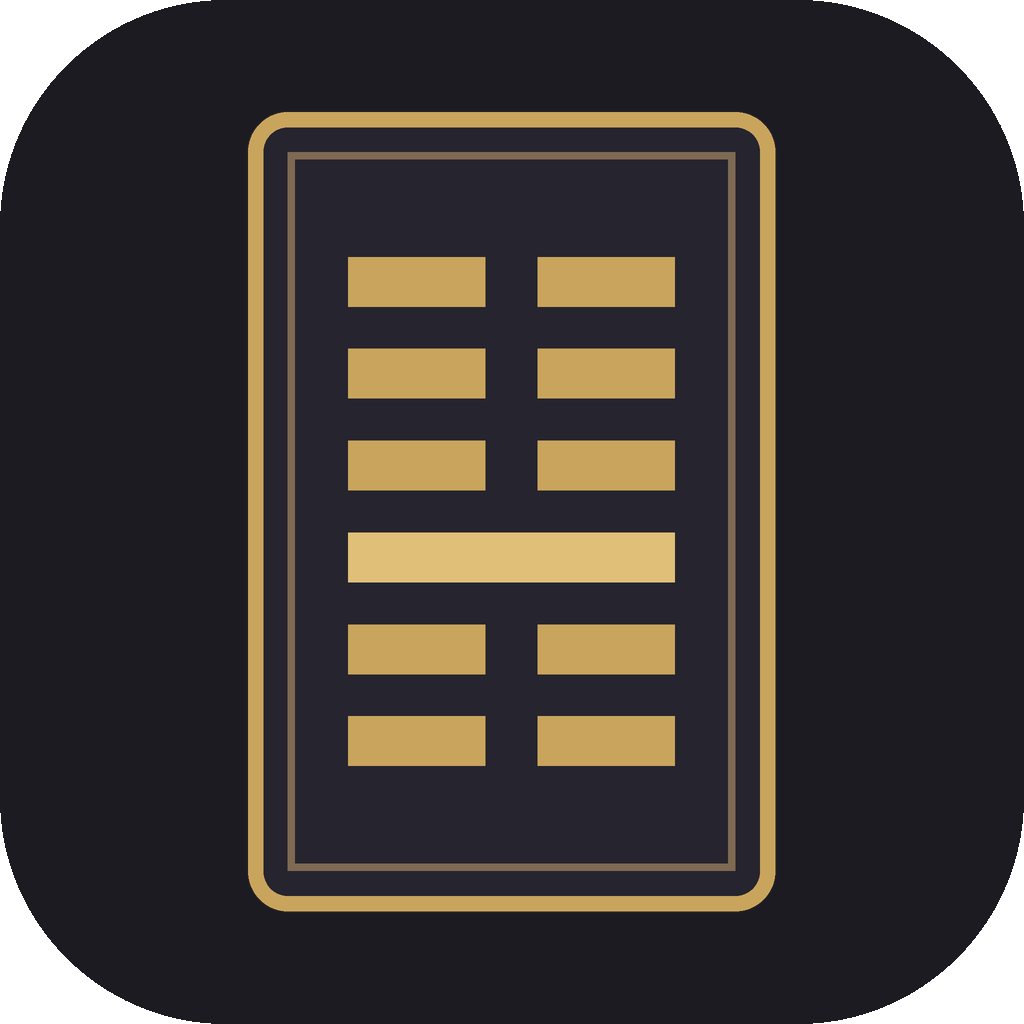
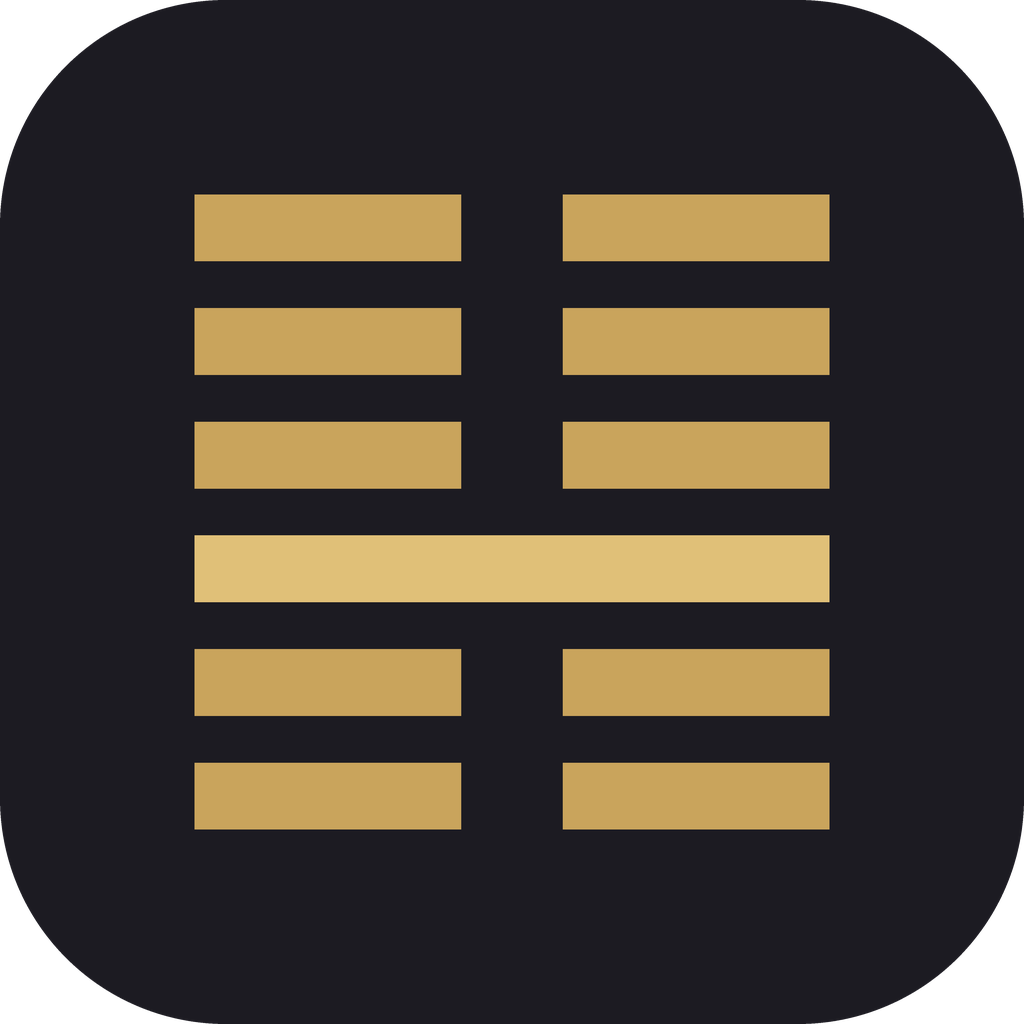
桌面圖示改無框滿版（A 版，0.1.0+14）

Changed region(s): [[0.1875, 0.0938, 0.8125, 0.9062]]

diff --git a/branding/draw_icon.py b/branding/draw_icon.py
@@ -1,45 +1,53 @@
+"""桌面圖示（0.1.0+14 起：無框滿版，2026-10-02 使用者選定 A 版）。
+玄底上直接畫謙卦 ䷎ 六爻；九三陽爻用較亮的稻金。卦象高度約為可見範圍的 62%，
+圓角方形與圓形桌面都不會切到。執行：python3 branding/draw_icon.py（在 repo 根目錄）。"""
+import os
 from PIL import Image, ImageDraw
-INK=(0x1C,0x1B,0x22); CARD=(0x26,0x24,0x2E); EARTH=(0xC9,0xA4,0x5C); RICE=(0xE0,0xC0,0x78); MT=(0x7E,0x6A,0x52)
-# 謙 ䷎ bottom->top: 初六,六二,九三,六四,六五,上六
-LINES=[False,False,True,False,False,False]
-def fg(S, frame=True):
-    """foreground on transparent S x S, content within central ~66%"""
-    im=Image.new('RGBA',(S,S),(0,0,0,0)); d=ImageDraw.Draw(im)
-    cx,cy=S/2,S/2
-    # 0.1.0+13：0.60→0.52。自適應圖示可見範圍約為畫布 66.7%，0.60 時卦卡佔滿可見高度約 89%，
-    # 桌面上顯得擁擠；0.52 時約 78%，與 icon-1024.png（使用者偏好的樣子）比例相同。
-    ch=S*0.52; cw=ch*0.66
-    if frame:
-        d.rounded_rectangle((cx-cw/2,cy-ch/2,cx+cw/2,cy+ch/2),radius=S*0.03,fill=CARD,outline=EARTH,width=max(2,int(S*0.012)))
-        m=S*0.03
-        d.rectangle((cx-cw/2+m,cy-ch/2+m,cx+cw/2-m,cy+ch/2-m),outline=MT,width=max(1,int(S*0.006)))
-    bw=cw*0.62; bh=ch*0.062; gap=ch*0.115
-    top=cy-(5*gap)/2
+
+HERE = os.path.dirname(os.path.abspath(__file__))
+INK = (0x1C, 0x1B, 0x22); EARTH = (0xC9, 0xA4, 0x5C); RICE = (0xE0, 0xC0, 0x78)
+LINES = [False, False, True, False, False, False]  # 謙 由下而上：初六、六二、九三、六四、六五、上六
+SCALE = 0.62  # 卦象高度 ÷ 可見範圍
+
+
+def hexagram(d, cx, cy, h):
+    bw = h; bh = h * 0.105; gap = (h - bh) / 5; top = cy - h / 2
     for i in range(6):
-        yang=LINES[5-i]  # draw from top: 上六 first
-        y=top+i*gap-bh/2
-        col=RICE if yang else EARTH
-        if yang: d.rectangle((cx-bw/2,y,cx+bw/2,y+bh),fill=col)
+        yang = LINES[5 - i]  # 由上往下畫
+        y = top + i * gap
+        col = RICE if yang else EARTH
+        if yang:
+            d.rectangle((cx - bw / 2, y, cx + bw / 2, y + bh), fill=col)
         else:
-            seg=bw*0.42
-            d.rectangle((cx-bw/2,y,cx-bw/2+seg,y+bh),fill=col); d.rectangle((cx+bw/2-seg,y,cx+bw/2,y+bh),fill=col)
+            seg = bw * 0.42
+            d.rectangle((cx - bw / 2, y, cx - bw / 2 + seg, y + bh), fill=col)
+            d.rectangle((cx + bw / 2 - seg, y, cx + bw / 2, y + bh), fill=col)
+
+
+def foreground(S):
+    """自適應圖示前景（108dp 畫布，可見範圍約中央 72dp＝66.7%），透明底。"""
+    im = Image.new('RGBA', (S, S), (0, 0, 0, 0))
+    hexagram(ImageDraw.Draw(im), S / 2, S / 2, S * (72 / 108) * SCALE)
     return im
+
+
 def legacy(S):
-    im=Image.new('RGBA',(S,S),(0,0,0,0)); d=ImageDraw.Draw(im)
-    d.rounded_rectangle((0,0,S-1,S-1),radius=S*0.22,fill=INK)
-    f=fg(S*2).resize((S,S),Image.LANCZOS)
-    # enlarge content for legacy (no safe-zone shrink): scale fg by 1.3
-    big=fg(int(S*1.5*2)).resize((int(S*1.5),int(S*1.5)),Image.LANCZOS)  # 1.3×0.60/0.52 ≈ 1.5，傳統圖示外觀不變
-    o=(S-big.size[0])//2; im.alpha_composite(big,(o,o)); return im
-legacy(1024).save('master_legacy.png')
-# adaptive foreground: 108dp canvas, safe 66dp -> our content 60% of canvas fits
-fg(1024).save('master_fg.png')
-# 各密度自適應前景（108dp 畫布）
-for d,px in [('mdpi',108),('hdpi',162),('xhdpi',216),('xxhdpi',324),('xxxhdpi',432)]:
-    fg(px*4).resize((px,px),Image.LANCZOS).save(f'android/res/mipmap-{d}/ic_launcher_foreground.png')
-prev=Image.new('RGB',(1024+20+192+20+96+20+48,1024),(240,240,240))
-prev.paste(legacy(1024),(0,0),legacy(1024))
-x=1044
-for s in (192,96,48):
-    l=legacy(s); prev.paste(l,(x,0),l); x+=s+20
-prev.save('preview.png')
+    """傳統圖示與上架大圖：圓角方形玄底＋卦象。"""
+    im = Image.new('RGBA', (S, S), (0, 0, 0, 0))
+    d = ImageDraw.Draw(im)
+    d.rounded_rectangle((0, 0, S - 1, S - 1), radius=S * 0.22, fill=INK)
+    hexagram(d, S / 2, S / 2, S * SCALE)
+    return im
+
+
+def hi(fn, px):
+    return fn(px * 4).resize((px, px), Image.LANCZOS)
+
+
+res = os.path.join(HERE, 'android', 'res')
+for dens, fg_px, lg_px in [('mdpi', 108, 48), ('hdpi', 162, 72), ('xhdpi', 216, 96),
+                           ('xxhdpi', 324, 144), ('xxxhdpi', 432, 192)]:
+    hi(foreground, fg_px).save(os.path.join(res, f'mipmap-{dens}', 'ic_launcher_foreground.png'))
+    hi(legacy, lg_px).save(os.path.join(res, f'mipmap-{dens}', 'ic_launcher.png'))
+hi(legacy, 1024).save(os.path.join(HERE, 'icon-1024.png'))
+print('done')
